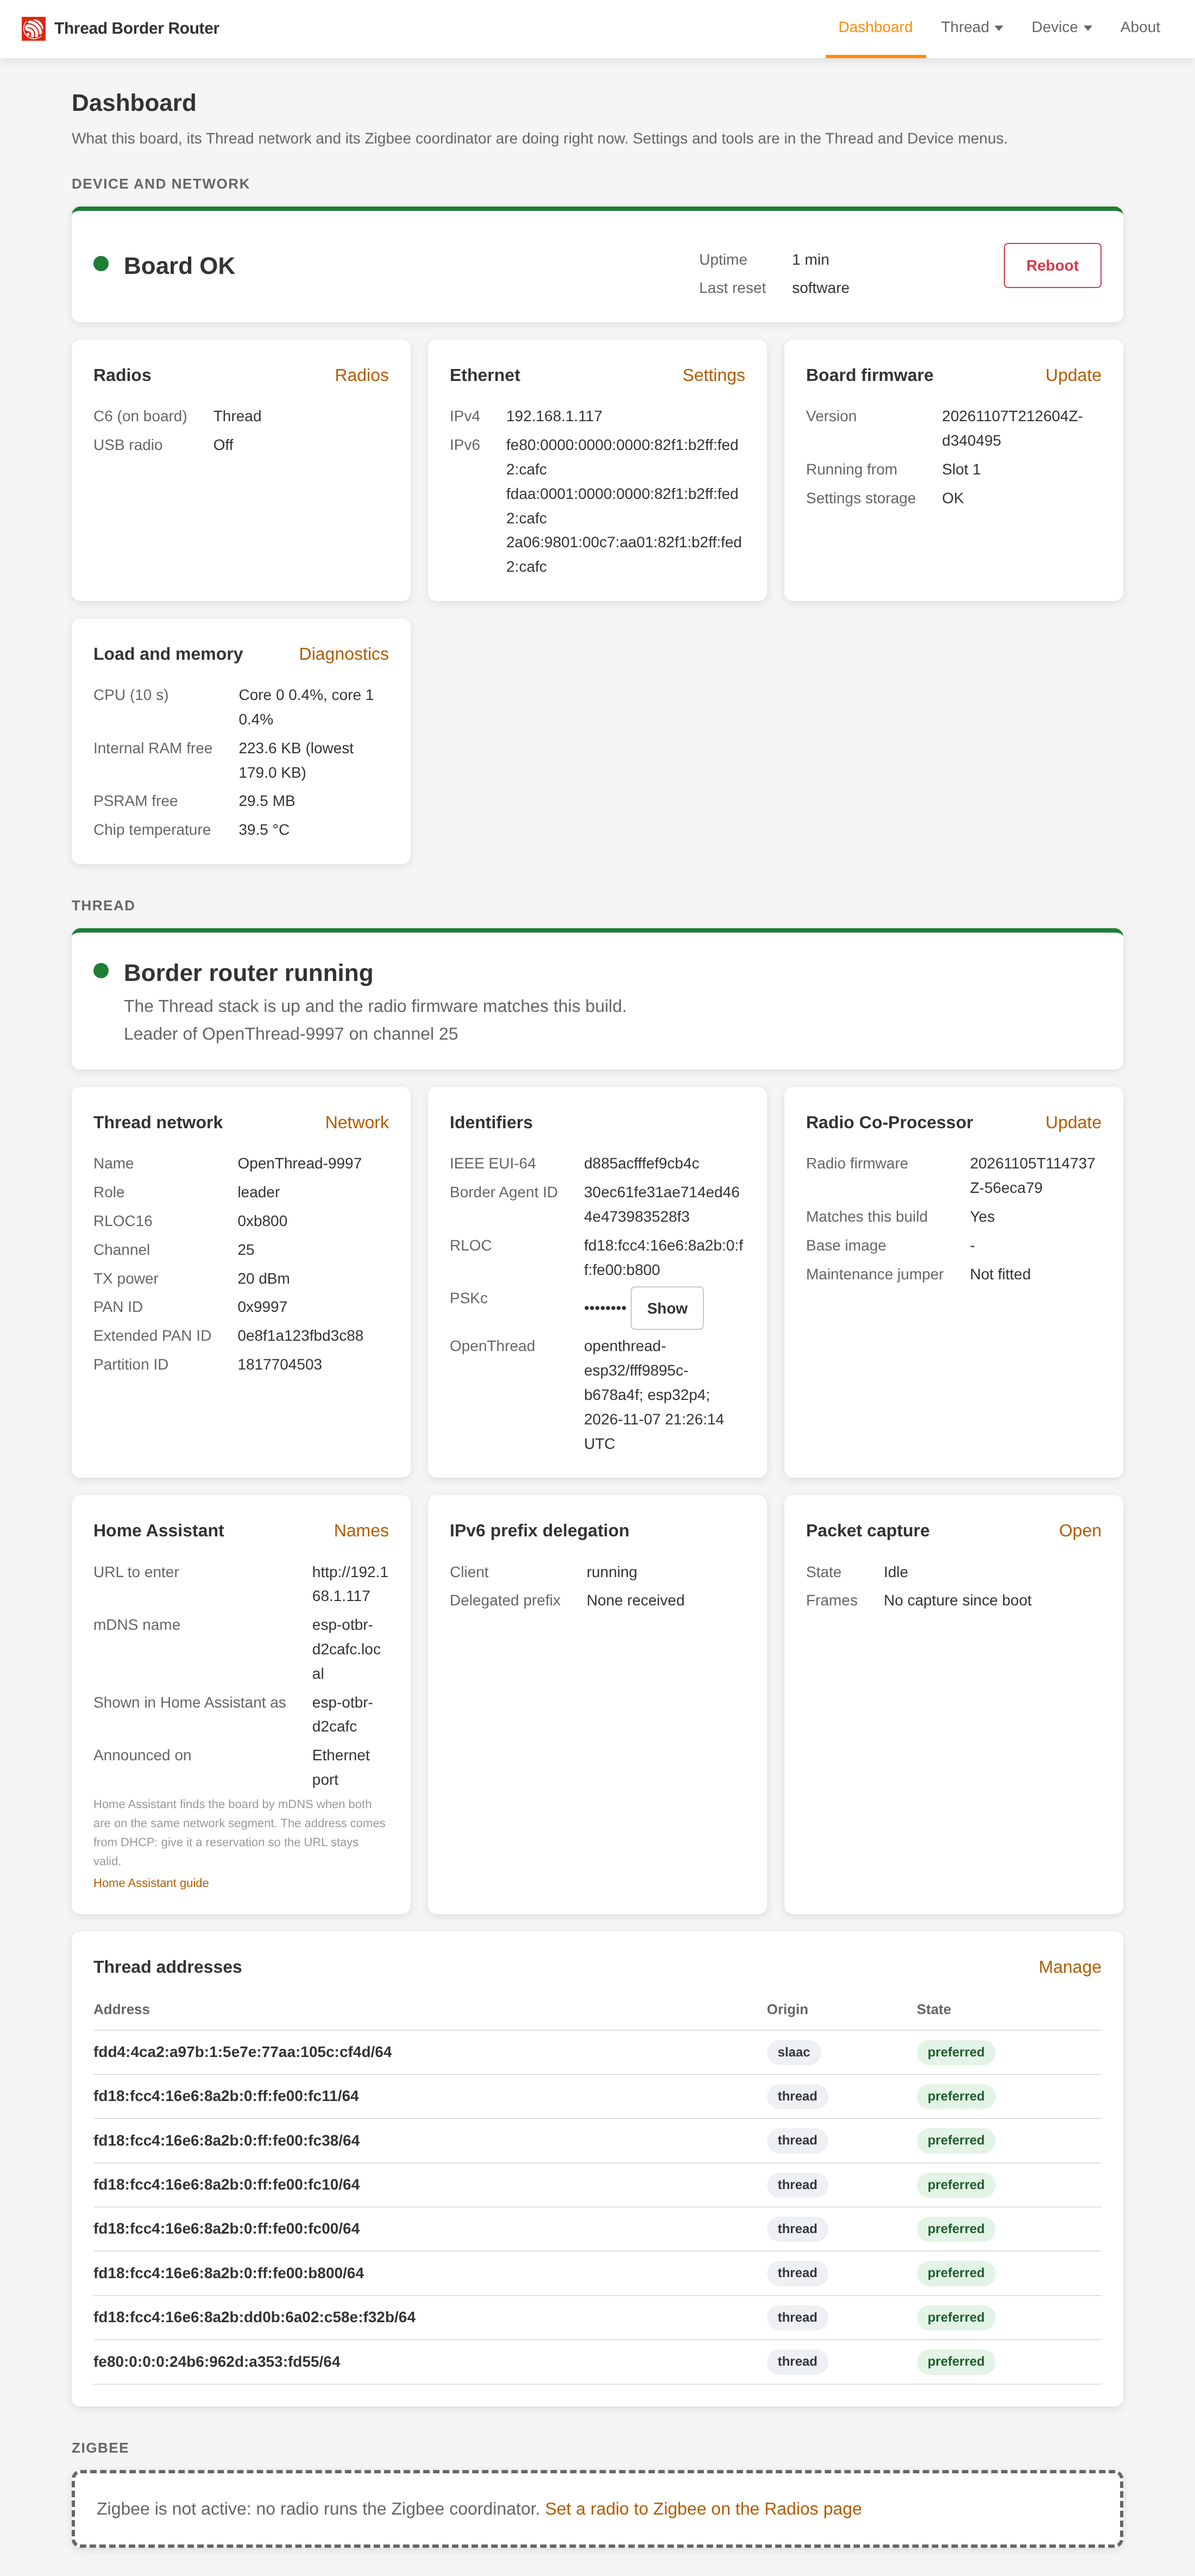
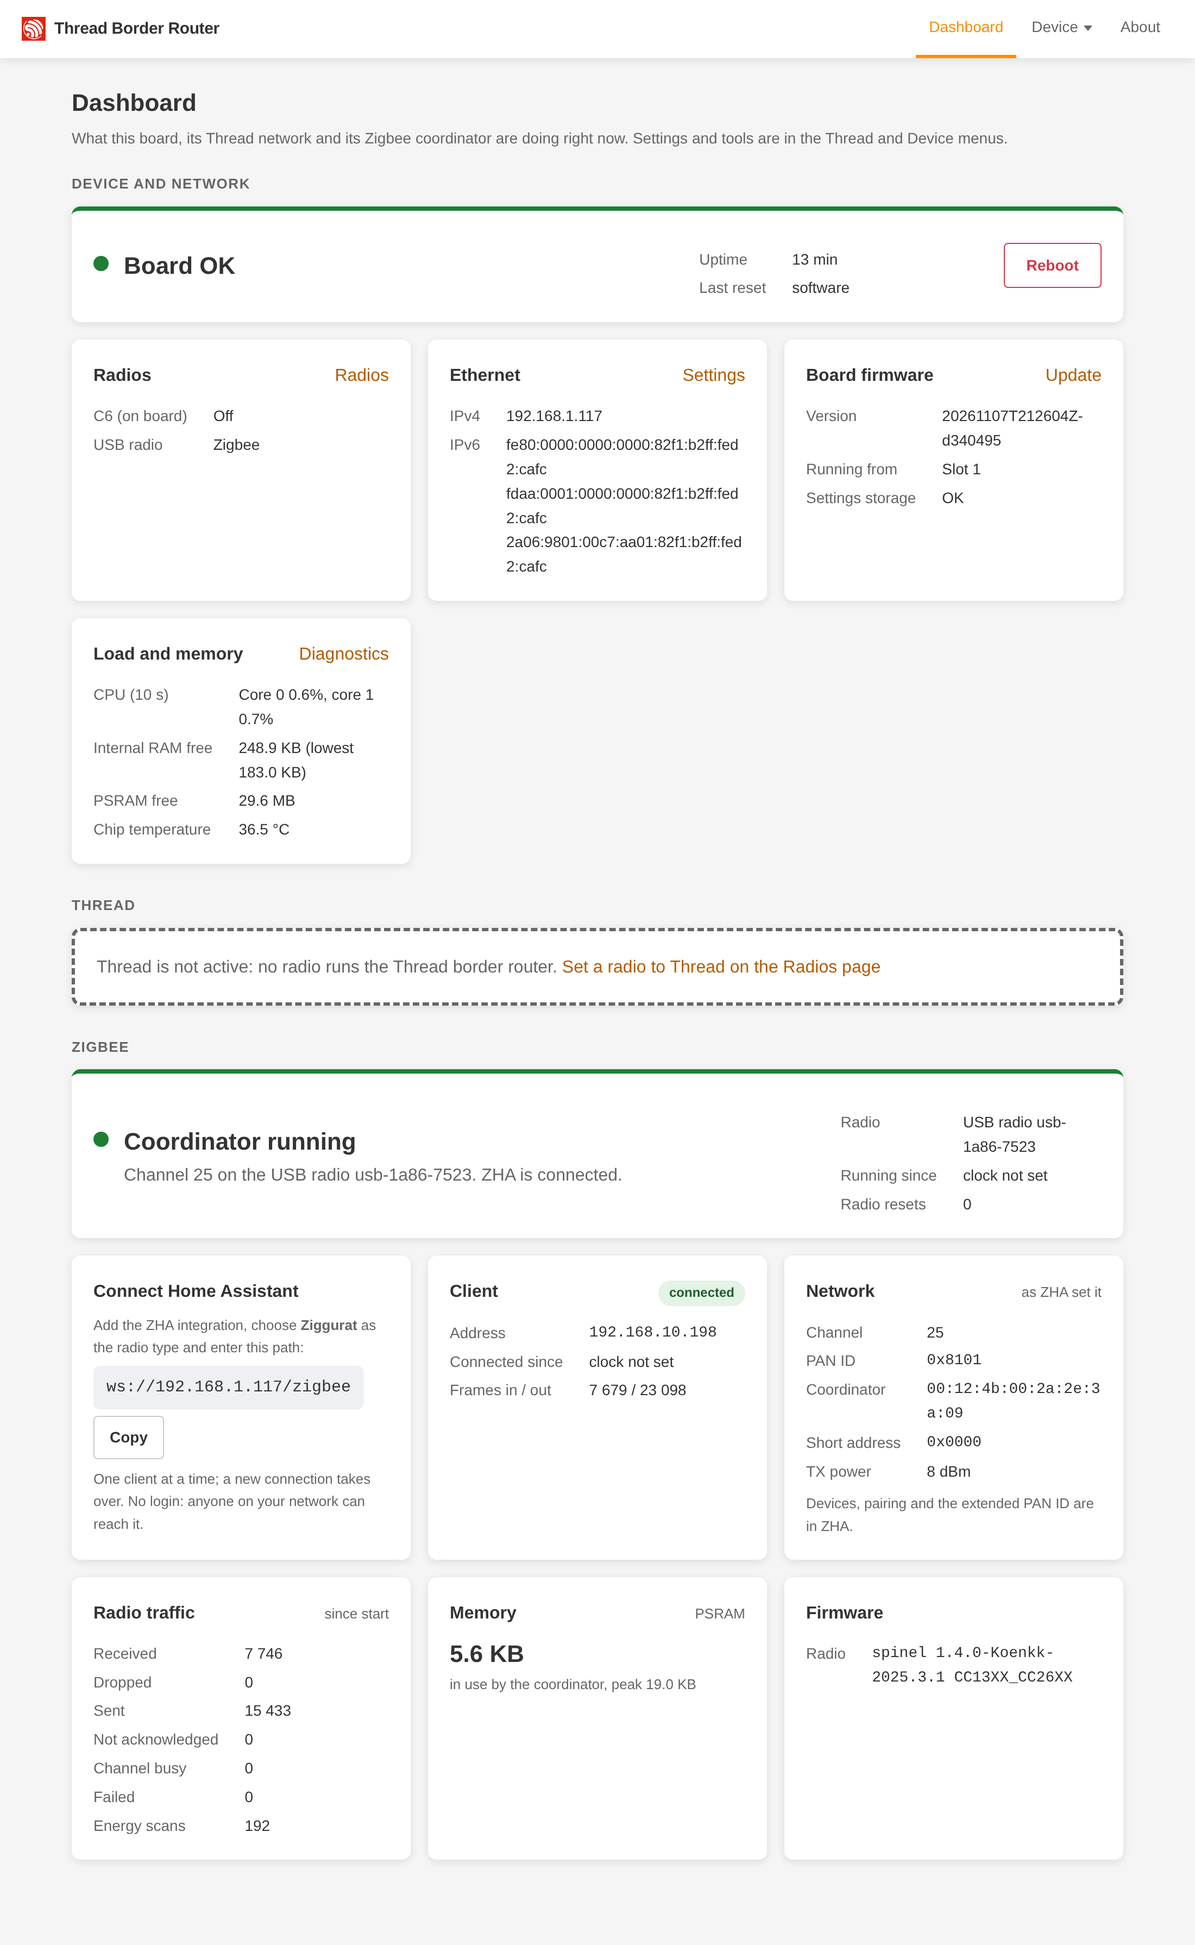
docs: one Dashboard screenshot, the Zigbee one
dashboard.png is now the shot with the USB radio running Zigbee and Thread
not active; dashboard-zigbee.png is gone. The docs home image is cut from it.

diff --git a/docs/overrides/home.html b/docs/overrides/home.html
@@ -254,7 +254,7 @@
     <div class="browser">
       <div class="chrome"><i></i><i></i><i></i><span id="shot-url">esp-otbr-a1b2c3.local/</span></div>
       <div class="shots">
-        <img class="on" data-url="esp-otbr-a1b2c3.local/" alt="Dashboard: the Device and network section with Board OK, the Radios card (C6 runs Thread, USB radio off) and Ethernet" src="{{ 'images/home/dashboard.webp' | url }}">
+        <img class="on" data-url="esp-otbr-a1b2c3.local/" alt="Dashboard: the Device and network section with Board OK, the Radios card (C6 off, USB radio Zigbee), Ethernet and board firmware" src="{{ 'images/home/dashboard.webp' | url }}">
         <img data-url="esp-otbr-a1b2c3.local/topology.html" alt="Topology: map of the Thread mesh with routers, end devices and link quality" src="{{ 'images/home/topology.webp' | url }}" loading="lazy">
         <img data-url="esp-otbr-a1b2c3.local/diagnostics.html" alt="Diagnostics: CPU load per core, memory, OpenThread lock and tasks" src="{{ 'images/home/diagnostics.webp' | url }}" loading="lazy">
         <img data-url="esp-otbr-a1b2c3.local/ethernet.html" alt="Ethernet: single port setup and Thread over Ethernet with two peers" src="{{ 'images/home/ethernet.webp' | url }}" loading="lazy">

diff --git a/docs/zigbee.md b/docs/zigbee.md
@@ -50,7 +50,7 @@ path with a Copy button, the connected or last client, the network (channel, PAN
 traffic counters, the memory the stack uses and the radio firmware; it polls `GET /device/zigbee`. While no radio
 runs Zigbee it says so in one line and links the Radios page, and nothing is polled.
 
-<img src="images/dashboard-zigbee.png" width="640" alt="Dashboard with the USB radio running Zigbee. Device and network: Board OK, the Radios card (C6 off, USB radio Zigbee). Thread: not active, with a link to the Radios page. Zigbee: Coordinator running on channel 25 on the USB radio, ZHA connected; cards for Connect Home Assistant with the ws:// path and a Copy button, the connected client, the network, radio traffic, memory and the radio firmware">
+<img src="images/dashboard.png" width="640" alt="Dashboard in three sections. Device and network: Board OK, the Radios card (C6 off, USB radio Zigbee), Ethernet, board firmware, load and memory. Thread: not active, with a link to the Radios page. Zigbee: Coordinator running on channel 25 on the USB radio, ZHA connected; cards for Connect Home Assistant with the ws:// path and a Copy button, the connected client, the network, radio traffic, memory and the radio firmware">
 
 ## Radio resets and loss
 

diff --git a/docs/api.md b/docs/api.md
@@ -371,7 +371,7 @@ recovery with the jumper), `/capture.html` (packet capture) and `/diagnostics.ht
 banner with **Keep new settings** while network settings are on trial. They use only `/device/*`, so they also work in
 `RADIO_FAULT` and while sniffing.
 
-<img src="images/dashboard.png" width="640" alt="Dashboard in three sections. Device and network: Board OK, the Radios card (C6 runs Thread, USB radio off), Ethernet, board firmware, load and memory. Thread: Border router running, with the Thread network, identifiers, radio co-processor, Home Assistant, prefix delegation and packet capture cards and the Thread address table. Zigbee: not active, with a link to the Radios page">
+<img src="images/dashboard.png" width="640" alt="Dashboard in three sections. Device and network: Board OK, the Radios card (C6 off, USB radio Zigbee), Ethernet, board firmware, load and memory. Thread: not active, with a link to the Radios page. Zigbee: Coordinator running on channel 25 on the USB radio, ZHA connected; cards for Connect Home Assistant with the ws:// path and a Copy button, the connected client, the network, radio traffic, memory and the radio firmware">
 
 ## Creating a Thread network
 

diff --git a/README.md b/README.md
@@ -61,7 +61,7 @@ down, the others keep the network reachable.
 
 <table>
   <tr>
-    <td width="25%"><img src="docs/images/dashboard.png" alt="Dashboard: board health, radios, Ethernet and firmware; the running Thread border router with its network and addresses; Zigbee not active"></td>
+    <td width="25%"><img src="docs/images/dashboard.png" alt="Dashboard in three sections. Device and network: Board OK, the Radios card (C6 off, USB radio Zigbee), Ethernet, board firmware, load and memory. Thread: not active, with a link to the Radios page. Zigbee: Coordinator running on channel 25 on the USB radio, ZHA connected; cards for Connect Home Assistant with the ws:// path and a Copy button, the connected client, the network, radio traffic, memory and the radio firmware"></td>
     <td width="25%"><img src="docs/images/topology.png" alt="Topology page: the Thread mesh with its leader and routers"></td>
     <td width="25%"><img src="docs/images/diagnostics.png" alt="Diagnostics: CPU load per core, memory, OpenThread lock timings and tasks"></td>
     <td width="25%"><img src="docs/images/capture.png" alt="Packet capture page: channel, length and a curl-to-Wireshark command"></td>
